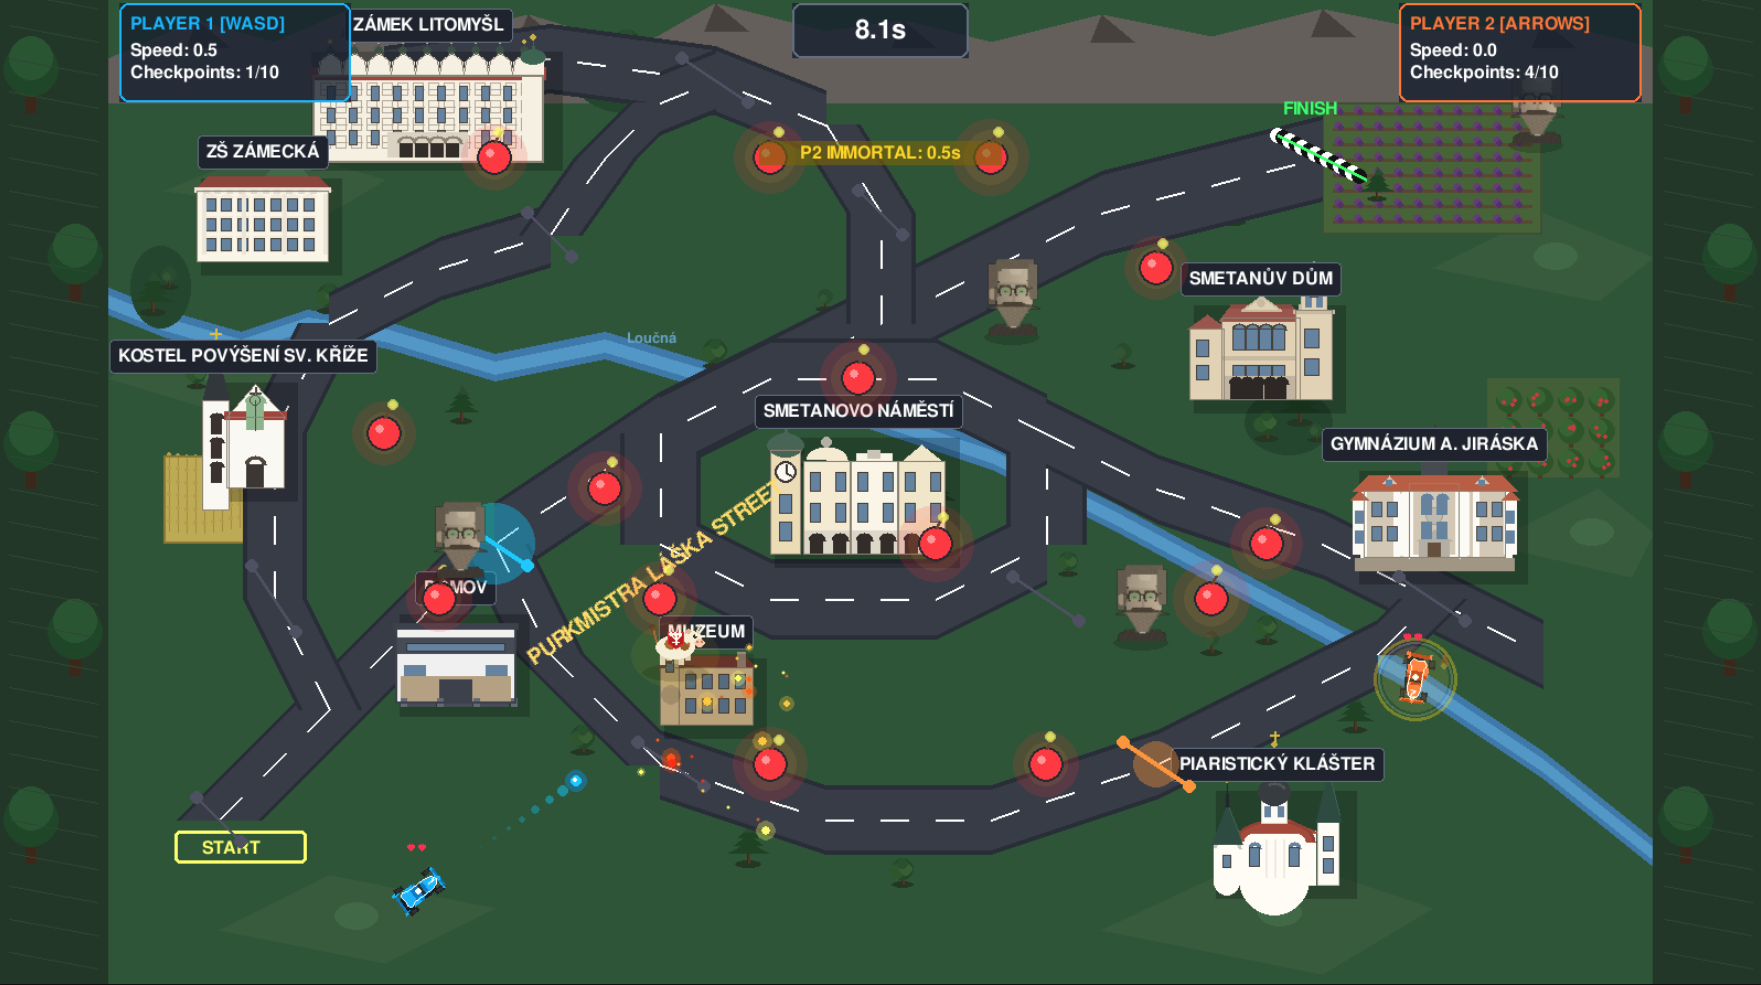
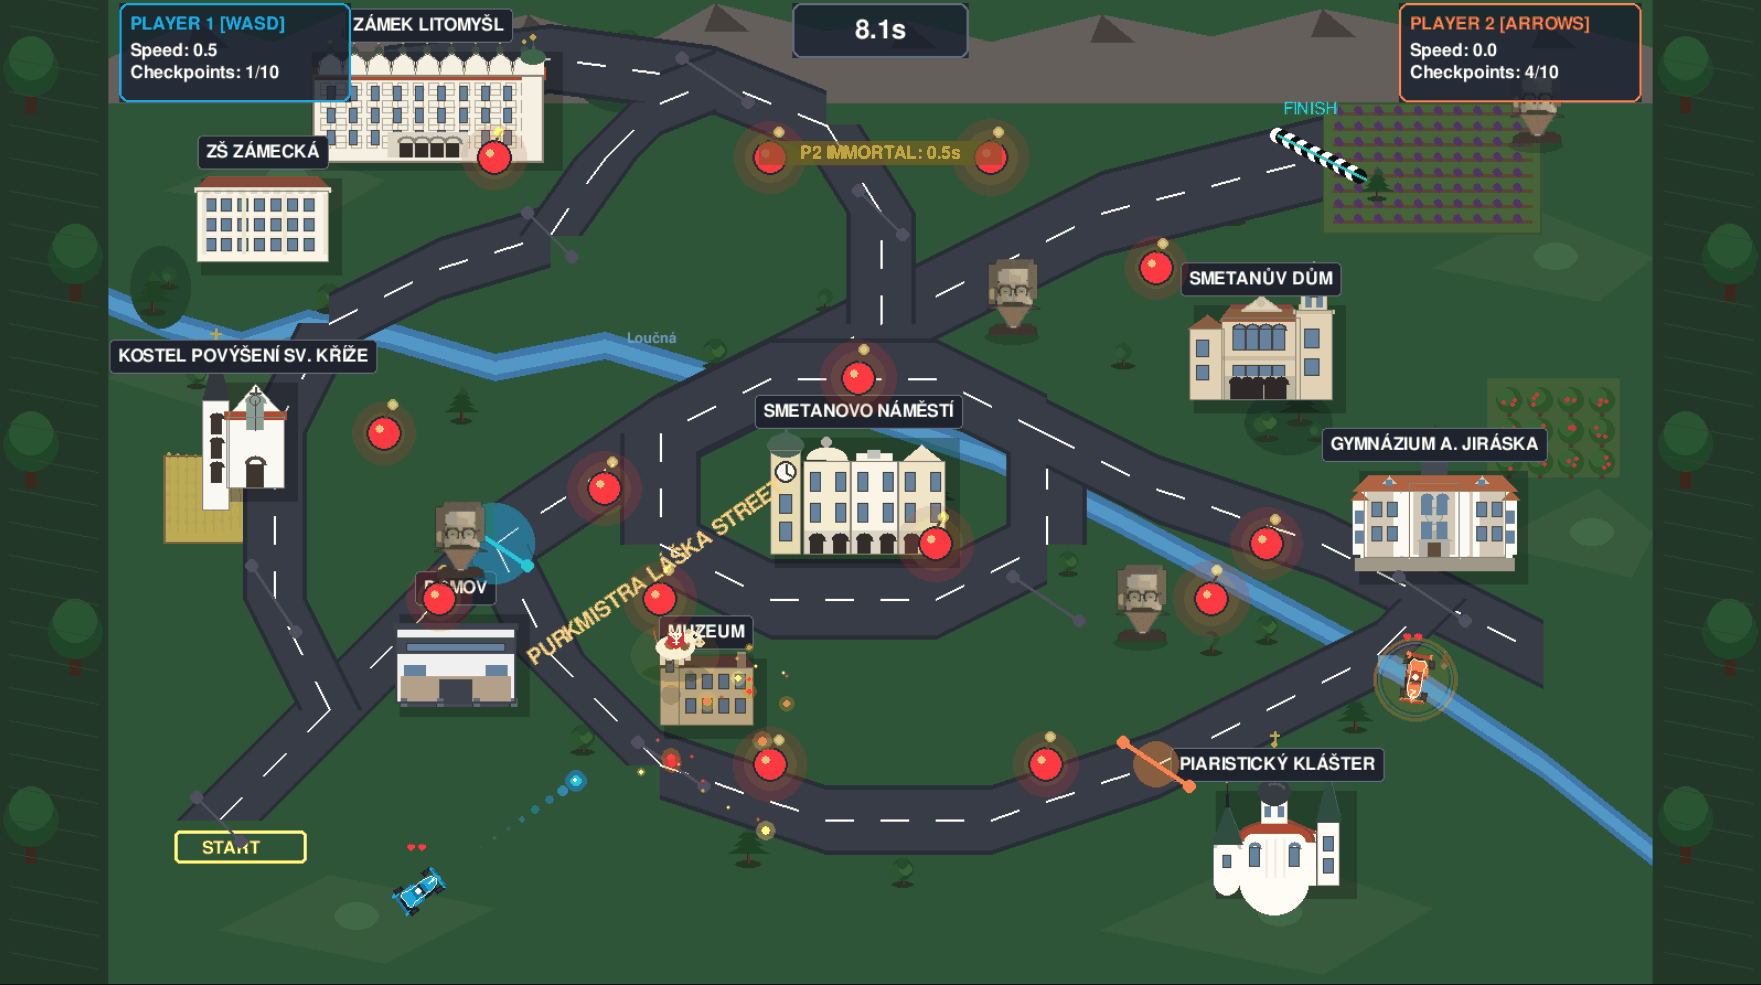
docs: credit kids, tighter Features, alt text, Notes, smaller screenshot
- README.md:
  * Credit Dan, Fila, and Lucinka (the kids) by first name in the
    opening paragraph; note the original gift recipients Kryštof
    and Kačka. (Brings back the personal-credit detail the original
    repo description had.)
  * Tighten Features list — cut redundancies with How to Play; keep
    one sharp bullet per genuinely-distinct feature.
  * Add a substantive descriptive alt text on the screenshot so
    screen-reader users get the same vibe (and so the image survives
    if GitHub fails to render).
  * New "Notes" section covering three real-world quirks: browser
    audio needs a user gesture before music starts; the leaderboard
    is a public JSON store (no auth, theoretically wipeable); mobile
    fullscreen + landscape may need a confirm prompt.

- docs/screenshot.png:
  * Reduce from 534 KB to 140 KB (-74%) by converting RGBA 24-bit
    to a 256-color adaptive palette PNG. Visually identical at any
    reasonable zoom; pixel-art style is forgiving of palette
    quantization.

Game files (index.html, favicon.png, .apk) remain byte-identical.

diff --git a/README.md b/README.md
@@ -5,13 +5,13 @@
 [![Built with Pygbag](https://img.shields.io/badge/built%20with-Pygbag-blue.svg)](https://github.com/pygame-web/pygbag)
 [![Made with Claude Code](https://img.shields.io/badge/made%20with-Claude%20Code-8A4FFF.svg)](https://docs.anthropic.com/en/docs/claude-code)
 
-A two-player browser racing game set in Litomyšl, Czech Republic. Built by three kids (ages 8–12) using [Claude Code](https://docs.anthropic.com/en/docs/claude-code) in about two hours — and then many more hours testing and improving it.
+A two-player browser racing game set in Litomyšl, Czech Republic. Built by **Dan, Fila, and Lucinka** (ages 8–12) using [Claude Code](https://docs.anthropic.com/en/docs/claude-code) in about two hours — and then many more hours testing and improving it. Originally a gift for Kryštof and Kačka.
 
 ## ▶ [Play now in your browser](https://tjhavranek.github.io/race/)
 
 No install needed. Works on desktop and on mobile (tap the fullscreen button when prompted).
 
-![Litomyšl Street Racing screenshot](docs/screenshot.png)
+![A top-down view of Litomyšl rendered in 1980s-style pixel art: nine landmark buildings labeled in Czech (Zámek Litomyšl, Smetanovo náměstí, Gymnázium A. Jiráska, ZŠ Zámecká, Smetanův dům, Muzeum, Kostel povýšení sv. Kříže, Piaristický klášter, Domov), a winding road network with 10 glowing checkpoint rings and scattered red bombs, the river Loučná running through, a blue Player 1 car near START and an orange Player 2 car near FINISH with an active "P2 IMMORTAL: 0.5s" cow power-up. A cow with the Litomyšl lily emblem stands near the museum; Smetana-portrait zombies are scattered across the streets.](docs/screenshot.png)
 
 ## The story
 
@@ -49,13 +49,11 @@ On touch devices, Player 2 becomes a bot. Touch the screen to steer, double-tap 
 
 ## Features
 
-- **9 destructible landmarks** of real Litomyšl: the UNESCO Castle (Zámek), Smetana's square (Smetanovo náměstí), the grammar school (Gymnázium A. Jiráska), the elementary school (ZŠ Zámecká), the Smetana House theater (Smetanův dům), the museum (Muzeum), the church (Kostel povýšení sv. Kříže), the Piarist monastery (Piaristický klášter), and a modern house (Domov). They take damage in stages (scorch marks → cracks → fire → rubble) — yes, you can level the town with enough rockets.
-- **Formula-1-style cars** with two lives each, checkpoints, projectiles, bombs, zombies, magical cows, and a 5-second safe-start shield.
-- **Bullets vs rockets**: bullets cost the opponent one life; rockets are area-of-effect and one-shot anything.
-- **Global top-10 leaderboard**, shared in real time across all players worldwide.
-- Local two-player on desktop; one human vs. bot on mobile.
-- **All audio synthesized in pure Python** — no sample files in the bundle. Engine hum, laser fire, explosions, checkpoint dings, finish-line fanfare, and a looping 140 BPM background composition with melody, bass, and drums.
-- Fullscreen mode and mobile-friendly landscape display, with terrain (mountains, hills, the river Loučná) drawn beneath the track.
+- **9 destructible Litomyšl landmarks** — Zámek (Castle, UNESCO), Smetanovo náměstí, Gymnázium A. Jiráska, ZŠ Zámecká, Smetanův dům, Muzeum, Kostel povýšení sv. Kříže, Piaristický klášter, and Domov. They take damage in stages (scorch → cracks → fire → rubble). Yes, you can level the town.
+- **Bullets vs rockets** — bullets cost the opponent one life; rockets (after a cow) are area-of-effect and one-shot anything.
+- **Global top-10 leaderboard** shared in real time across all players worldwide.
+- **All audio synthesized in pure Python** — engine, fire, explosions, dings, finish fanfare, and a looping 140 BPM track with melody, bass, and drums. No sample files in the bundle.
+- Terrain (mountains, hills, the river Loučná) drawn beneath the track; fullscreen + mobile-landscape friendly.
 
 ## What's in this repo
 
@@ -77,6 +75,12 @@ ls unpacked/assets/
 ## Building from source
 
 The Python source lives inside `litomysl-racing-game.apk`. To rebuild the web bundle yourself after editing, see [CONTRIBUTING.md](CONTRIBUTING.md). A native desktop build is also possible with PyInstaller — see the `build_windows.bat` script inside the bundle.
+
+## Notes
+
+- **Audio needs a user gesture.** Modern browsers won't start music or sound effects until you click or press a key on the page (Web Audio policy). The very first menu interaction unlocks audio.
+- **The leaderboard is a shared public store.** Times are persisted to a free public JSON endpoint (npoint.io). It's lightweight and there's no auth — which means a clever visitor could in principle clear or spam it. So far that has not happened.
+- **Mobile fullscreen + landscape** are requested by the page; depending on the browser/OS, you may need to confirm a "fullscreen?" prompt before orientation locks.
 
 ## About Litomyšl
 
